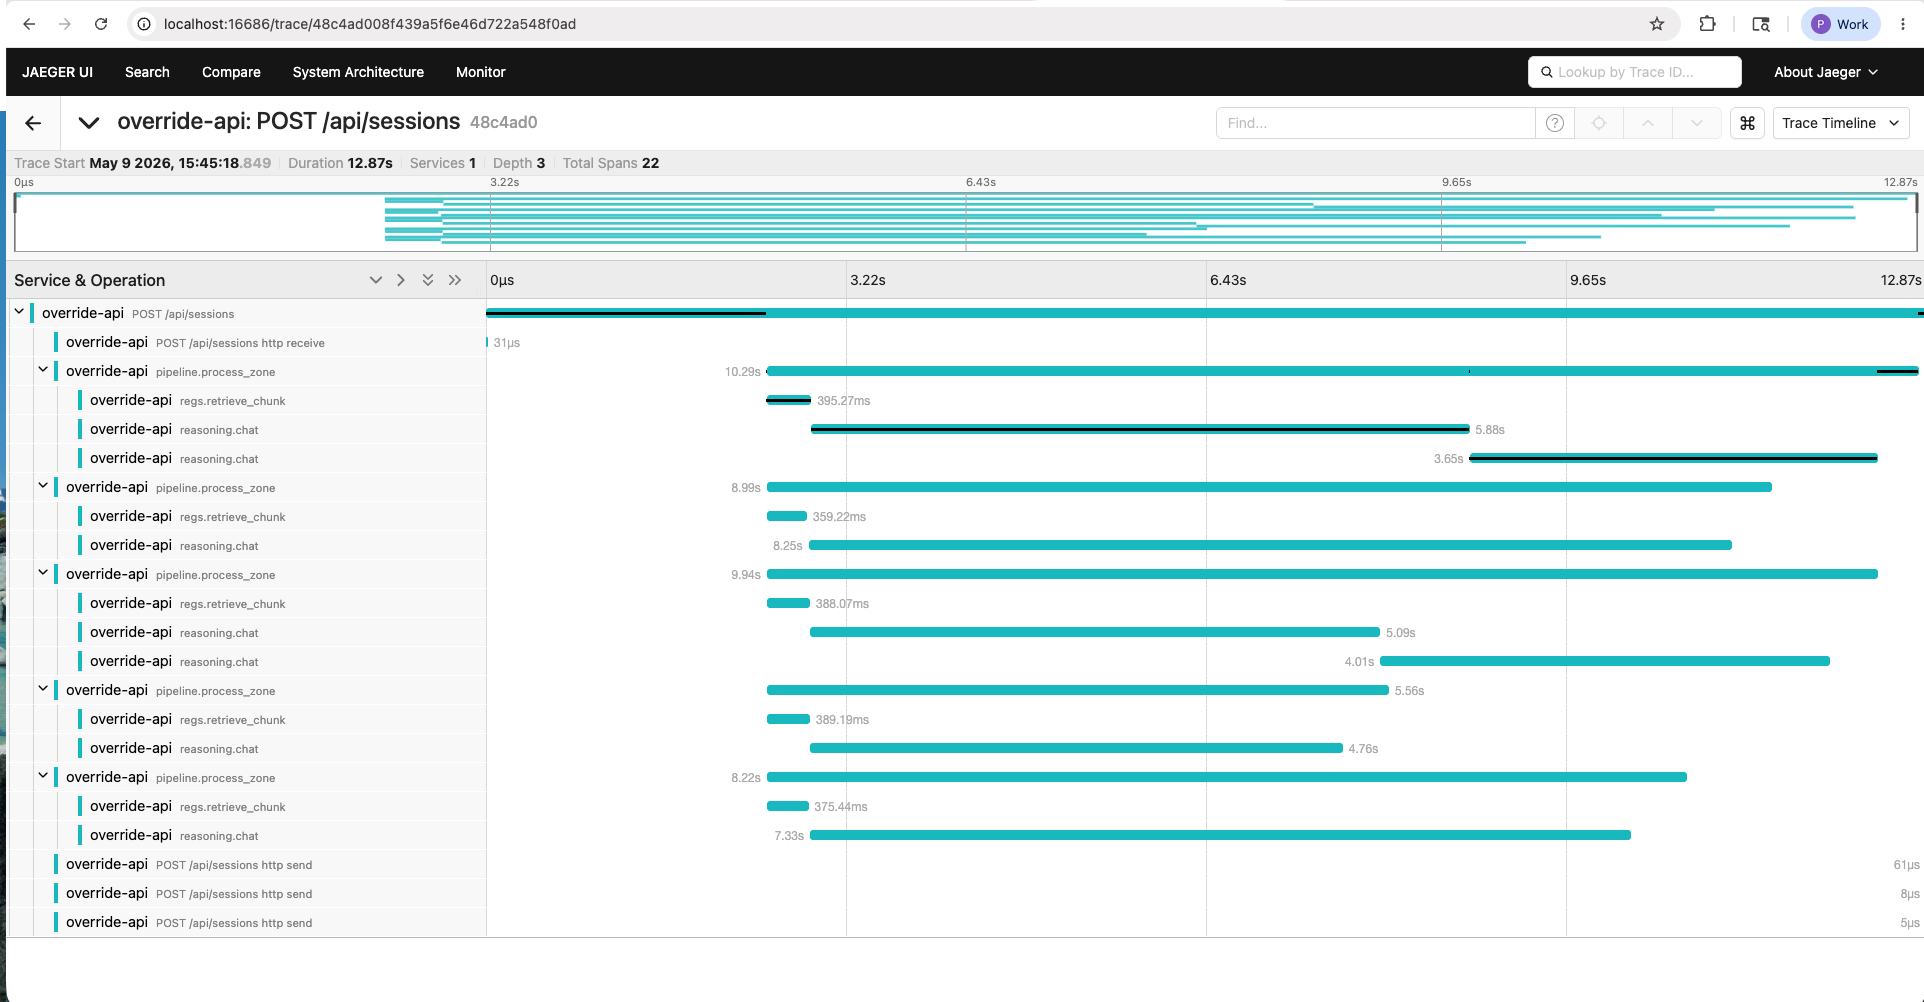
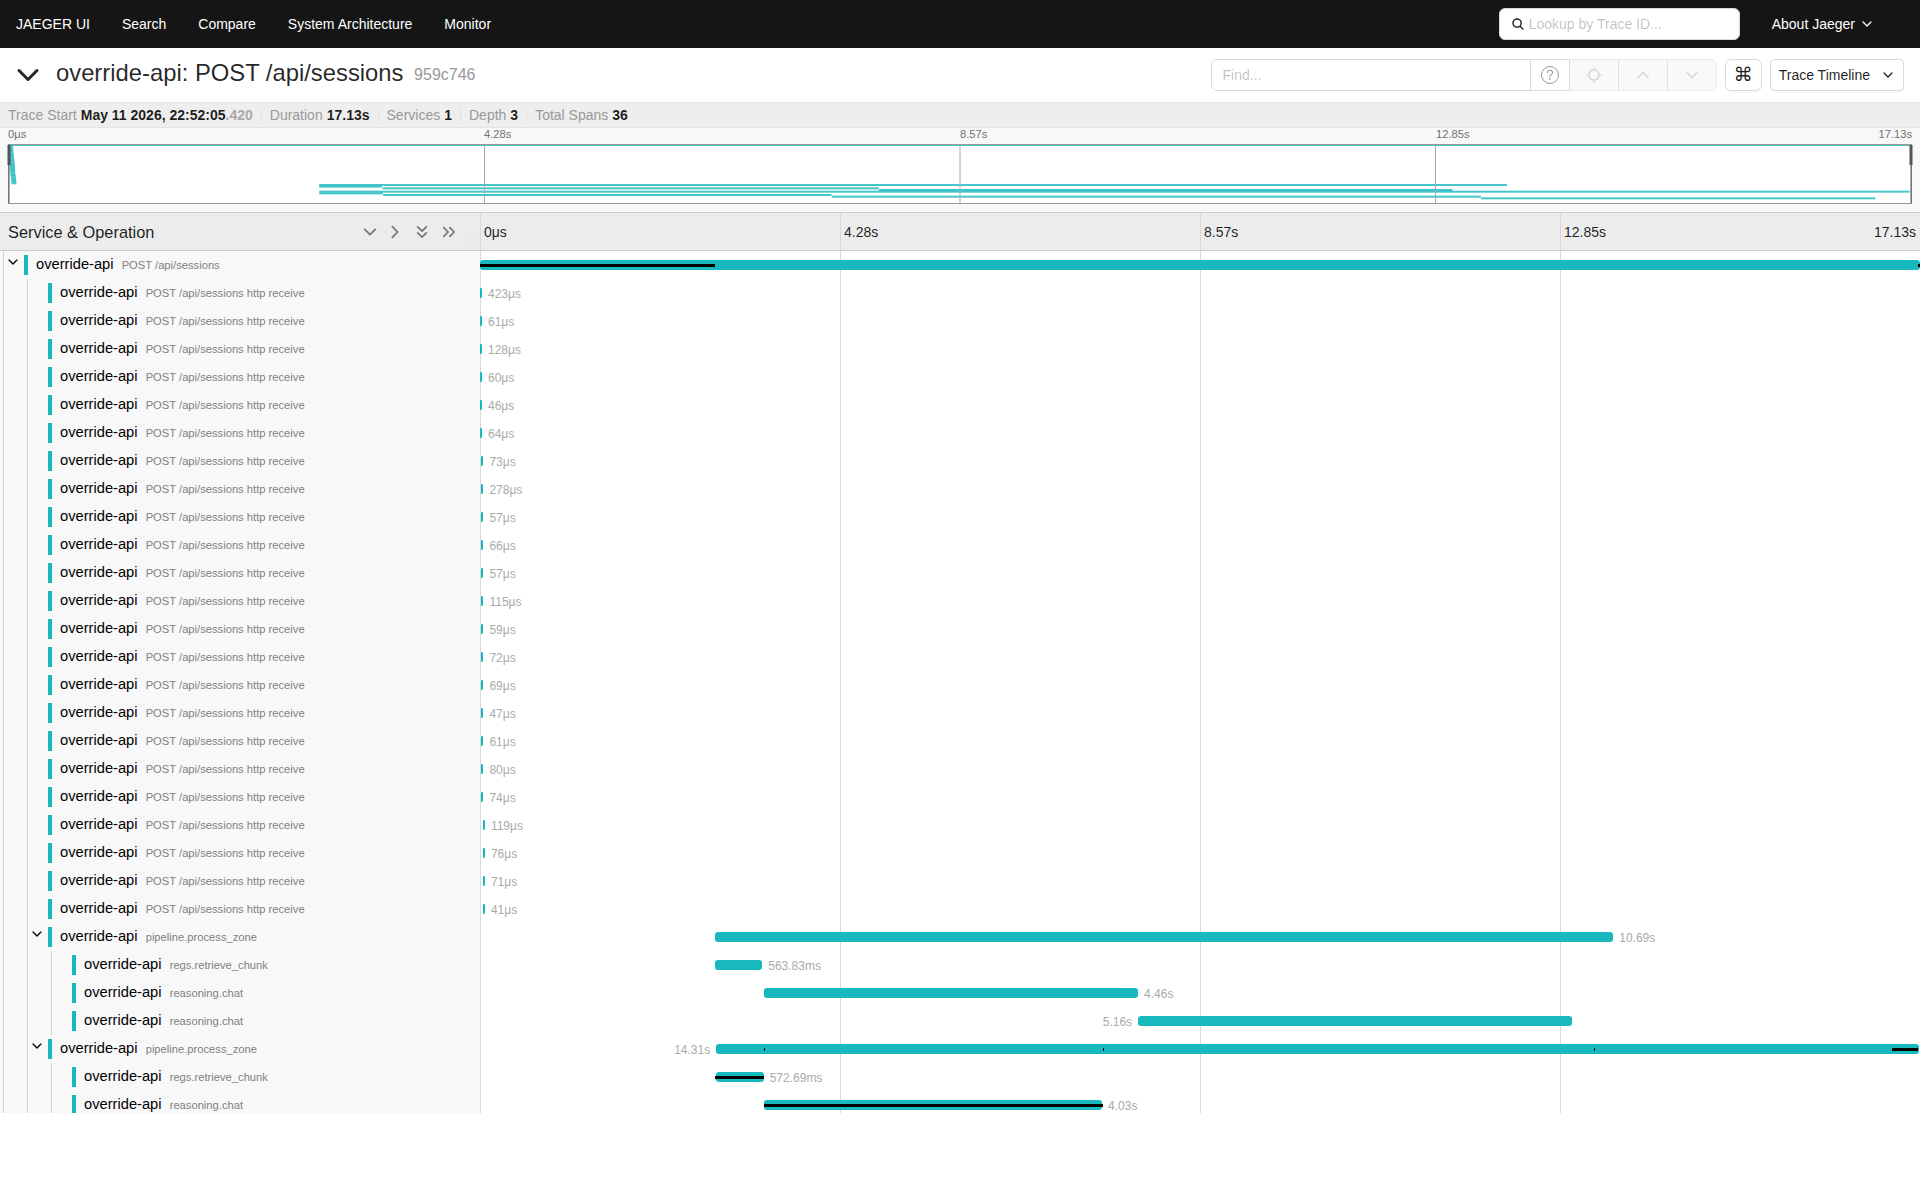
2.6 — Jaeger trace screenshot + README observability beat
Closes v6 plan task 2.6 / P3.6 observability deliverable.

Captured against a live podman-run Jaeger all-in-one + the existing
OTel instrumentation in api/observability.py + core/pipeline.py. The
trace tree confirms the reviewer's check #2 ("show nested spans, not
flat"):

  POST /api/sessions                    17.13s  ← root request span
  ├─ pipeline.process_zone              10.7s   ← zone 1
  │  ├─ regs.retrieve_chunk             0.56s
  │  └─ reasoning.chat × 2 (retry)
  └─ pipeline.process_zone              14.3s   ← zone 2
     ├─ regs.retrieve_chunk             0.57s
     └─ reasoning.chat × 3 (retry)

36 spans total. The reasoning.chat retry pattern (2-3 fires per zone)
visibly demonstrates the Pass-1 → Pass-2 retry budget in action —
rubric-positive for the "explainable + auditable" story.

Capture pipeline:
  1. podman run -d --name jaeger -p 16686:16686 -p 4317:4317 \
       jaegertracing/all-in-one:latest with COLLECTOR_OTLP_ENABLED=true
  2. OVERRIDE_TRACING=otlp OTEL_EXPORTER_OTLP_ENDPOINT=http://localhost:4317 \
       .venv/bin/uvicorn api.main:app
  3. POST data/samples/torcs_baseline.jsonl?source=torcs (watsonx pipeline;
     ~$0.05 burn, well inside the v6 plan budget)
  4. google-chrome --headless --screenshot=... \
       http://localhost:16686/trace/<trace_id>
  5. Same for the search-results view (jaeger-trace-span.png)

Both screenshots replace the May 10 placeholder files (180KB / 196KB) with
[…]

Changed region(s): [[0.0, 0.0, 1.0, 1.0], [0.3438, 0.6497, 1.0, 0.9281]]

diff --git a/README.md b/README.md
@@ -69,6 +69,9 @@
 
 </td>
 </tr>
+<tr>
+<td colspan="2"><strong>Jaeger trace — full nested-span pipeline visibility</strong><br/><img src="assets/screenshots/jaeger-trace.png" alt="Jaeger UI showing a POST /api/sessions trace with 36 spans across two pipeline.process_zone parents, each with nested regs.retrieve_chunk + reasoning.chat retry children, on the override-api service"/><br/><em>Captured with <code>OVERRIDE_TRACING=otlp</code> against a local Jaeger all-in-one; pipeline stages render as nested children of the root request span, not as a flat list. The retry pattern (reasoning.chat fires 2–3 times per zone) shows the Pass-1 → Pass-2 retry budget in action.</em></td>
+</tr>
 </table>
 
 ---
@@ -121,7 +124,7 @@ OVERRIDE is the open-source answer: a copilot that takes a session replay, ident
 | Langflow | **Design + demo layer**, mirrors the production pipeline | `pip install langflow` |
 | IBM Bob | **Build-time only** — development partner, README acknowledgment | bob.ibm.com/trial |
  
-**Observability:** direct OpenTelemetry instrumentation (FastAPI auto-instrumentor + manual spans across reasoning / guardian / regs / pipeline stages). Toggle with `OVERRIDE_TRACING=otlp` and view in Jaeger — see [`docs/plans/p3.6-jaeger-trace-capture.md`](docs/plans/p3.6-jaeger-trace-capture.md). Default is `off` (zero overhead).
+**Observability:** direct OpenTelemetry instrumentation (FastAPI auto-instrumentor + manual spans across reasoning / guardian / regs / pipeline stages). Toggle with `OVERRIDE_TRACING=otlp` and view in Jaeger — full nested span tree captured in `assets/screenshots/jaeger-trace.png` (36 spans / two `pipeline.process_zone` parents per request, each with `regs.retrieve_chunk` + `reasoning.chat` retry children). Default is `off` (zero overhead).
  
 
  